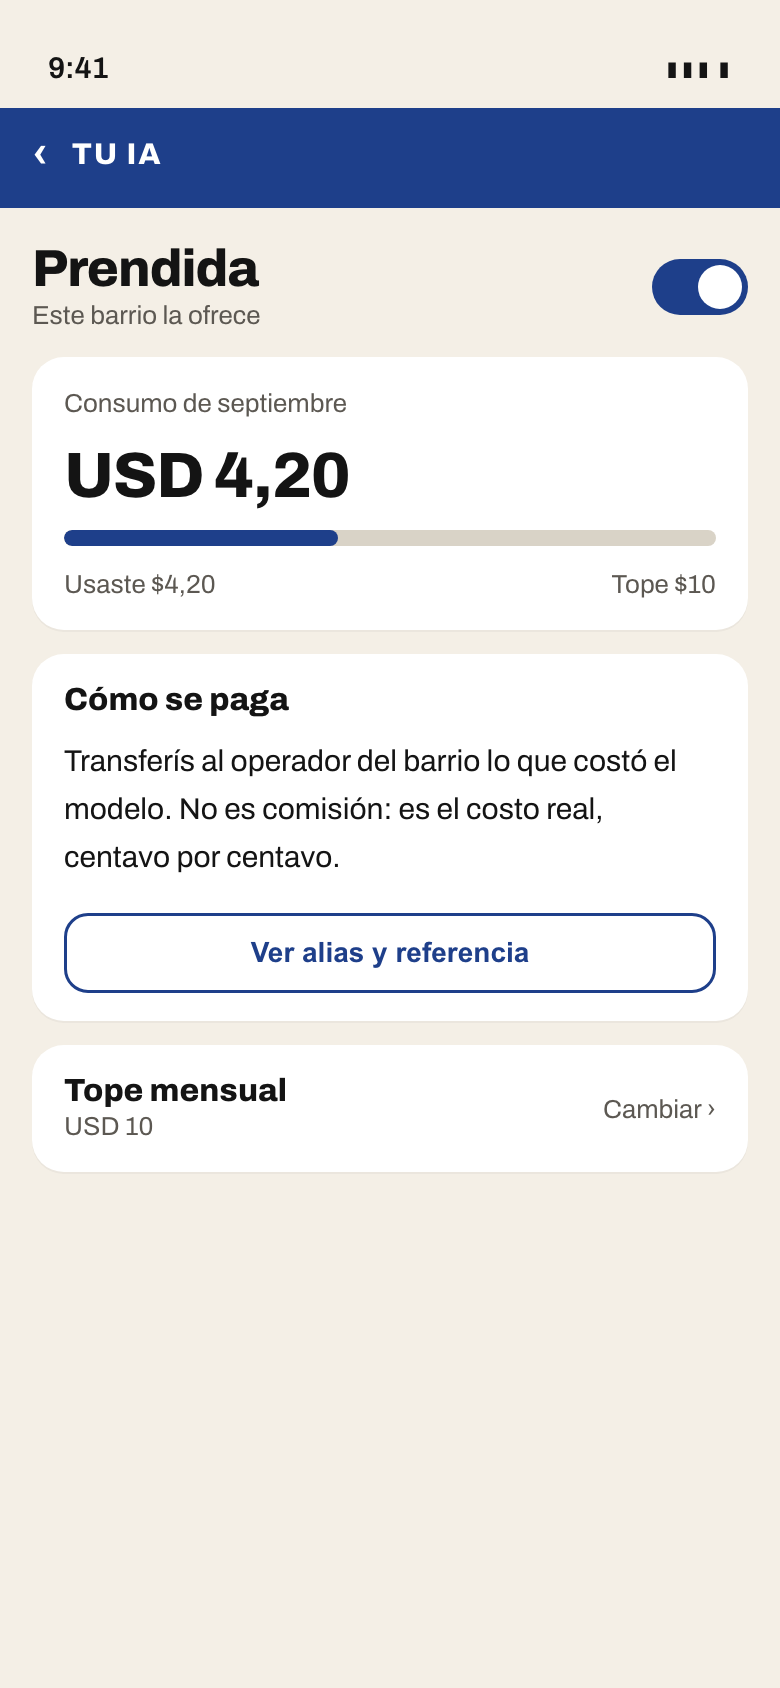
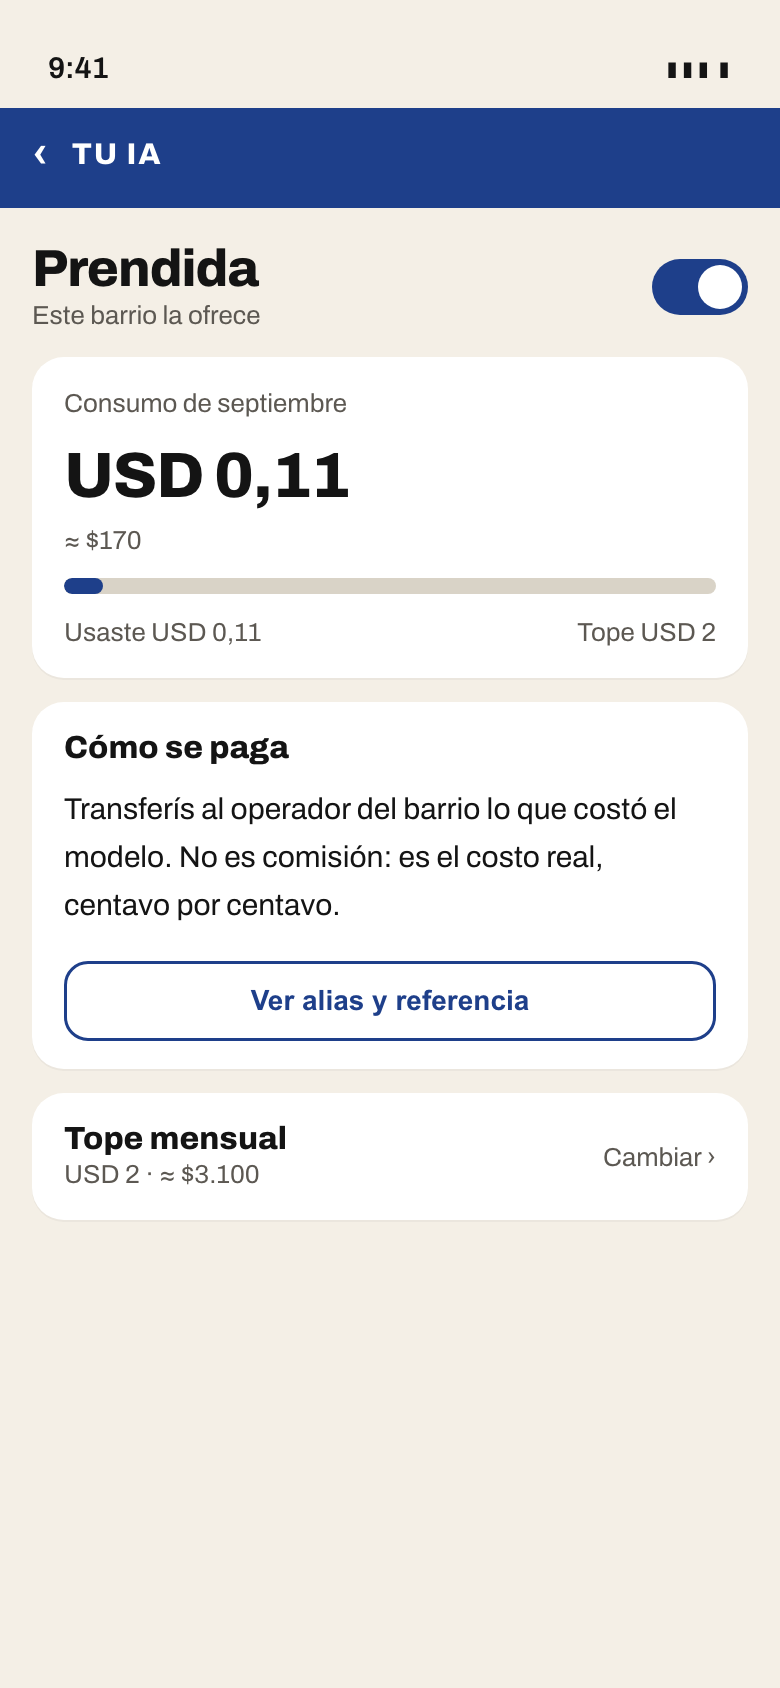
docs(ia): alinear montos de Tu IA con el costo real del §4
Mockups y copy usan USD 0,11 de un tope USD 2 (≈ centavos/mes),
coherentes con un comercio activo ~USD 0,09.

Changed region(s): [[0.0308, 0.2464, 0.9846, 0.7393]]

diff --git a/docs/ia/propuestas.md b/docs/ia/propuestas.md
@@ -180,9 +180,11 @@ Activar, ver consumo del mes, tope, y cómo se paga (transferencia al operador d
 
 | Opción | Idea |
 | --- | --- |
-| **A — pantalla** | Prendida/apagada, consumo, barra vs tope, “Cómo se paga”, cambiar tope. |
-| **B — hoja** | Desde Vos: resumen corto + “Activar · tope USD 5”. |
+| **A — pantalla** | Prendida/apagada, consumo ≈ **USD 0,11** (≈ $170) de un tope **USD 2** (≈ $3.100), “Cómo se paga”, cambiar tope. |
+| **B — hoja** | Desde Vos: resumen corto + “Activar · tope USD 2”. |
 | **C — mínimo** | Solo toggle + link a conectar tu agente gratis. |
+
+Los montos del mockup siguen §4 (comercio activo ~USD 0,09/mes): **USD 0,11 de un tope de USD 2**, no dólares enteros.
 
 ![A · pantalla](mockups/tu-ia-a.png)
 
@@ -190,9 +192,9 @@ Activar, ver consumo del mes, tope, y cómo se paga (transferencia al operador d
 
 ![C · mínimo](mockups/tu-ia-c.png)
 
-**Recomiendo A** para el piloto de 5 comercios: hay que entender el costo. B como atajo desde Vos. C es demasiado opaco para la primera vez.
+**Recomiendo A** para el piloto de 5 comercios: hay que ver que el costo es de centavos. B como atajo desde Vos. C es demasiado opaco para la primera vez.
 
-Copy clave (para todas las opciones): *“No es comisión: es lo que cuesta el modelo.”* Nunca digas “nodo”, “tokens” ni “API” de cara a la persona.
+Copy clave (para todas las opciones): *“No es comisión: es lo que cuesta el modelo.”* / *“casi gratis: pagás lo que gasta el modelo.”* Nunca digas “nodo”, “tokens” ni “API” de cara a la persona.
 
 ---
 
